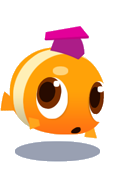
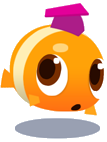
fix: 캐릭터 스티커 잘림·치우침 정리 — 재크롭·알파 트림·가장자리 앵커
- 전 스티커 알파 경계 진단(잘린 변 자동 검출) 후 결함 4종 재크롭:
  토끼(좌측 과잉 컷 복원), 쥐(배너 조각 제거·완전체로), 몬스터(상단 머리 복원), 나나(우측 지느러미 복원)
- 나머지 6종은 알파 트림으로 투명 여백 불균형 제거 (치우침 원인)
- 표시 크기를 실제 비율로 재산정, 원본이 잘린 빼꼼 포즈(토끼)만 edge 플래그로
  화면 가장자리 밀착 — 잘린 변이 프레임 뒤로 숨는다. 완전한 스프라이트는 8px 여백

검증: 8화면 순회 — 프레임 밖 삐져나감 0, 좌/우 여백 8px 일관, 잘린 변 잔존 0
(진단 스크립트 재실행: 토끼 R(의도된 빼꼼) 외 전부 무결), 콘솔 에러 0, 타입 델타 0

diff --git a/src/theme/themeAssets.ts b/src/theme/themeAssets.ts
@@ -26,8 +26,8 @@ export interface ThemeAssets {
   crest?: any;
   /** 이모지 아이콘 대체 글리프 (ThemedGlyph 가 조회) */
   glyphs?: Record<string, any>;
-  /** 화면 구석에 얹는 캐릭터 이모티콘(투명 배경) — 화면 id 해시로 순환 */
-  stickers?: Array<{ img: any; w: number; h: number }>;
+  /** 화면 구석에 얹는 캐릭터 이모티콘(투명 배경). edge=원본이 한쪽이 잘린 빼꼼 포즈 → 화면 가장자리에 밀착 */
+  stickers?: Array<{ img: any; w: number; h: number; edge?: boolean }>;
 }
 
 export const THEME_ASSETS: Record<string, ThemeAssets> = {
@@ -63,16 +63,16 @@ export const THEME_ASSETS: Record<string, ThemeAssets> = {
       dict: require('../../assets/themes/malhaeboka/icon-dict.png'),
     },
     stickers: [
-      { img: require('../../assets/themes/malhaeboka/char-rabbit.png'), w: 78, h: 90 },
-      { img: require('../../assets/themes/malhaeboka/sticker-cat.png'), w: 84, h: 90 },
-      { img: require('../../assets/themes/malhaeboka/char-fish.png'), w: 56, h: 76 },
-      { img: require('../../assets/themes/malhaeboka/sticker-mouse.png'), w: 80, h: 72 },
-      { img: require('../../assets/themes/malhaeboka/sticker-crowncat.png'), w: 76, h: 98 },
-      { img: require('../../assets/themes/malhaeboka/sticker-owl.png'), w: 78, h: 75 },
-      { img: require('../../assets/themes/malhaeboka/sticker-chu.png'), w: 70, h: 90 },
-      { img: require('../../assets/themes/malhaeboka/sticker-monster.png'), w: 72, h: 67 },
-      { img: require('../../assets/themes/malhaeboka/sticker-nana.png'), w: 58, h: 66 },
-      { img: require('../../assets/themes/malhaeboka/sticker-goldfish.png'), w: 72, h: 72 },
+      { img: require('../../assets/themes/malhaeboka/char-rabbit.png'), w: 79, h: 90, edge: true },
+      { img: require('../../assets/themes/malhaeboka/sticker-cat.png'), w: 76, h: 90 },
+      { img: require('../../assets/themes/malhaeboka/char-fish.png'), w: 58, h: 77 },
+      { img: require('../../assets/themes/malhaeboka/sticker-mouse.png'), w: 78, h: 67 },
+      { img: require('../../assets/themes/malhaeboka/sticker-crowncat.png'), w: 75, h: 96 },
+      { img: require('../../assets/themes/malhaeboka/sticker-owl.png'), w: 78, h: 72 },
+      { img: require('../../assets/themes/malhaeboka/sticker-chu.png'), w: 88, h: 72 },
+      { img: require('../../assets/themes/malhaeboka/sticker-monster.png'), w: 66, h: 74 },
+      { img: require('../../assets/themes/malhaeboka/sticker-nana.png'), w: 58, h: 79 },
+      { img: require('../../assets/themes/malhaeboka/sticker-goldfish.png'), w: 72, h: 76 },
     ],
   },
 };

diff --git a/src/emulator/EmulatorShell.tsx b/src/emulator/EmulatorShell.tsx
@@ -154,7 +154,10 @@ function ScreenSticker({ theme, enabled, screenId }: { theme: Theme; enabled: bo
       style={{
         position: 'absolute',
         bottom: 88,
-        ...(flip ? { left: 2, alignItems: 'flex-start' } : { right: 2, alignItems: 'flex-end' }),
+        // 원본이 잘린 빼꼼 포즈(edge)는 가장자리 밀착, 완전한 스프라이트는 8px 띄운다
+        ...(flip
+          ? { left: st.edge ? 0 : 8, alignItems: 'flex-start' as const }
+          : { right: st.edge ? 0 : 8, alignItems: 'flex-end' as const }),
       }}
     >
       {/* 응원 말풍선 */}
